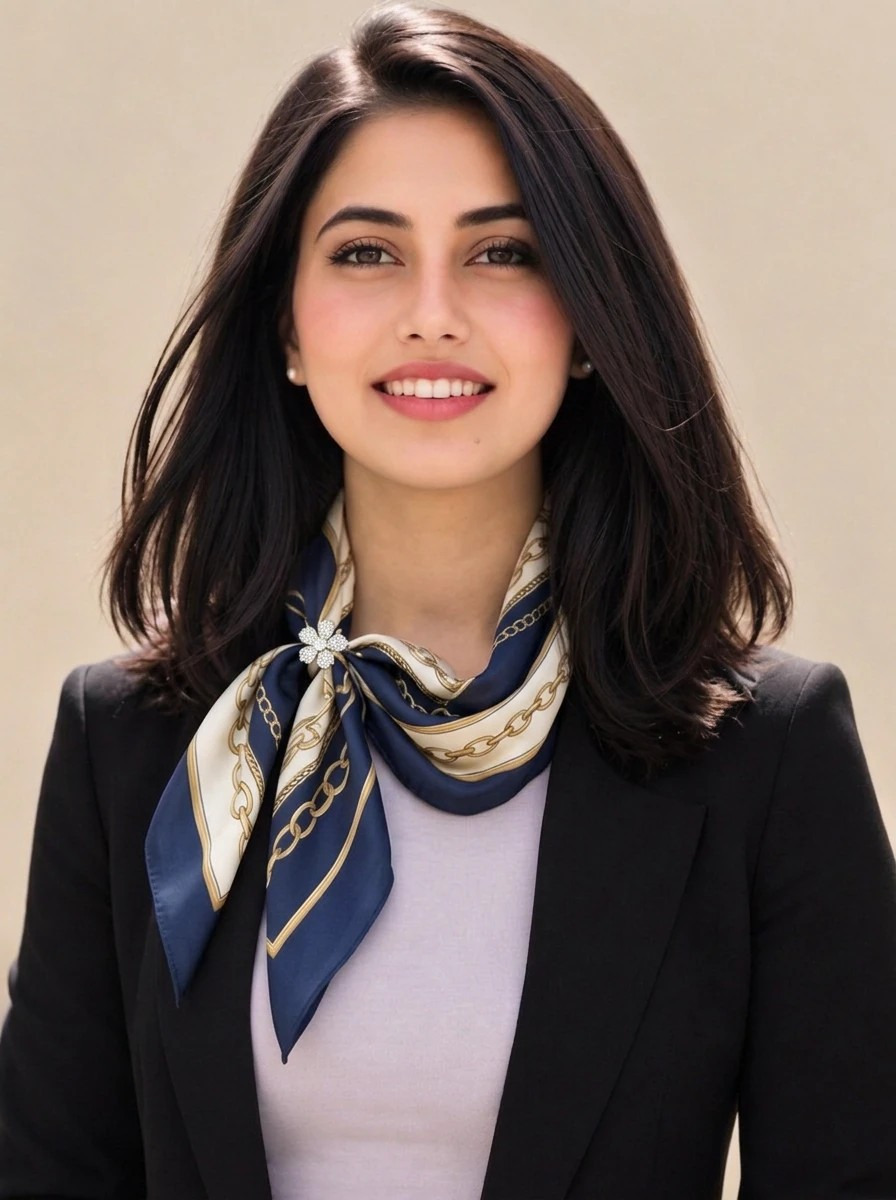
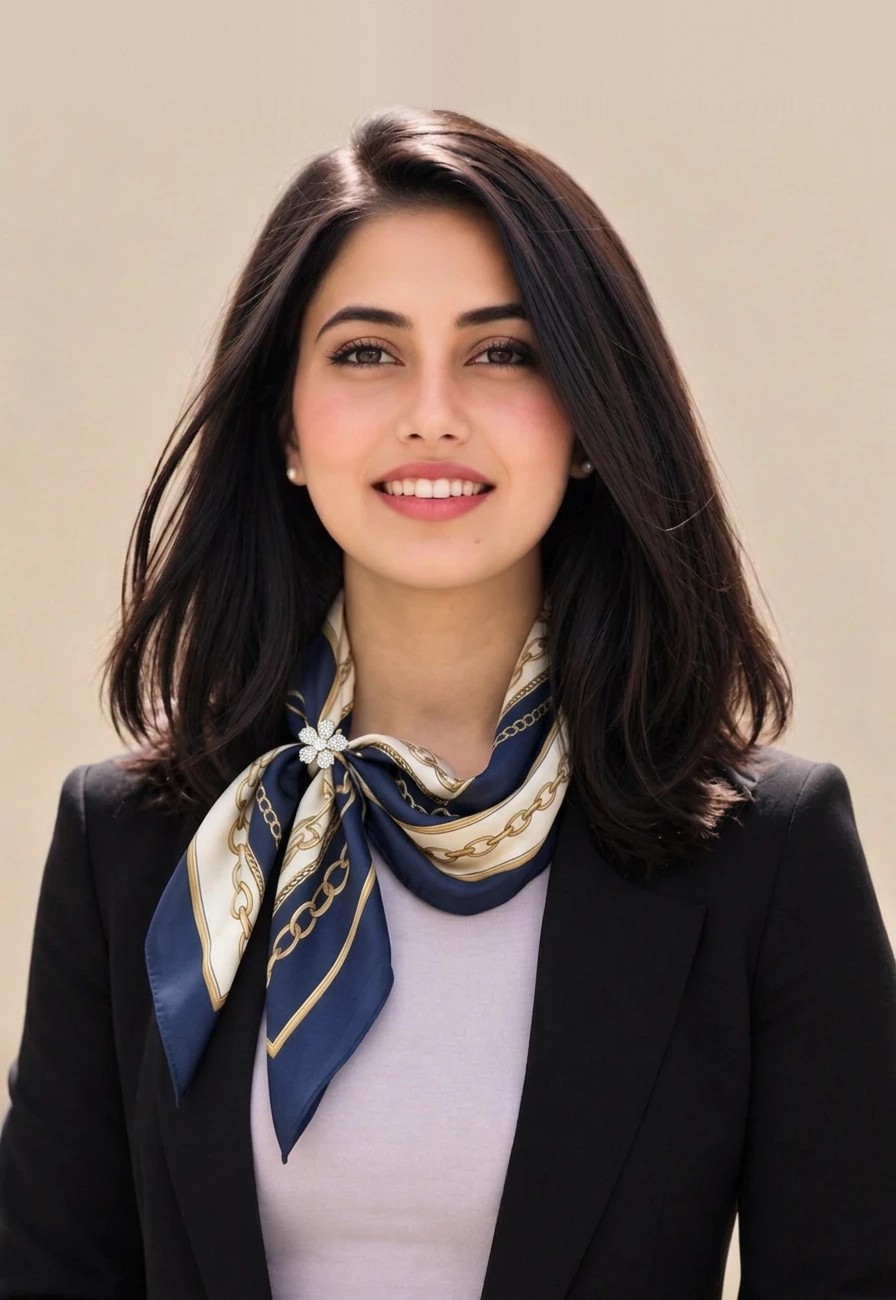
Add headroom above hero photo (#111)
* Add headroom above hero photo

Extend the background 160px above the head and update the photo frame
aspect ratio to 896/1360.

Claude-Session: https://claude.ai/code/session_01AzR9C8R7YcfG2eLTVqe9QR

* Reduce headroom above hero photo to 100px

Claude-Session: https://claude.ai/code/session_01AzR9C8R7YcfG2eLTVqe9QR

---------

diff --git a/layouts/landing/list.html b/layouts/landing/list.html
@@ -136,7 +136,7 @@ nav{
   border-radius:18px;overflow:hidden;
   background:linear-gradient(160deg,var(--cream) 0%,var(--blush) 45%,var(--rose) 100%);
   border:1px solid var(--rule);
-  aspect-ratio:896/1200;width:100%;
+  aspect-ratio:896/1300;width:100%;
   display:flex;flex-direction:column;align-items:center;justify-content:center;gap:.75rem;
   position:relative;cursor:pointer;
   box-shadow:0 8px 40px rgba(39,21,16,.08);
@@ -601,7 +601,7 @@ footer span{font-size:.7rem;font-weight:600;color:rgba(255,255,255,.55);letter-s
   .pub-links{flex-direction:row;align-items:flex-start;}
   .ticker{display:none;}
   .h-right{flex-direction:column;}
-  .h-photo{flex:none;aspect-ratio:896/1200;width:100%;}
+  .h-photo{flex:none;aspect-ratio:896/1300;width:100%;}
   .hobby-grid{grid-template-columns:repeat(2,1fr);}
   .proj-card{grid-template-columns:1fr;gap:1.5rem;padding:1.5rem;}
 }
